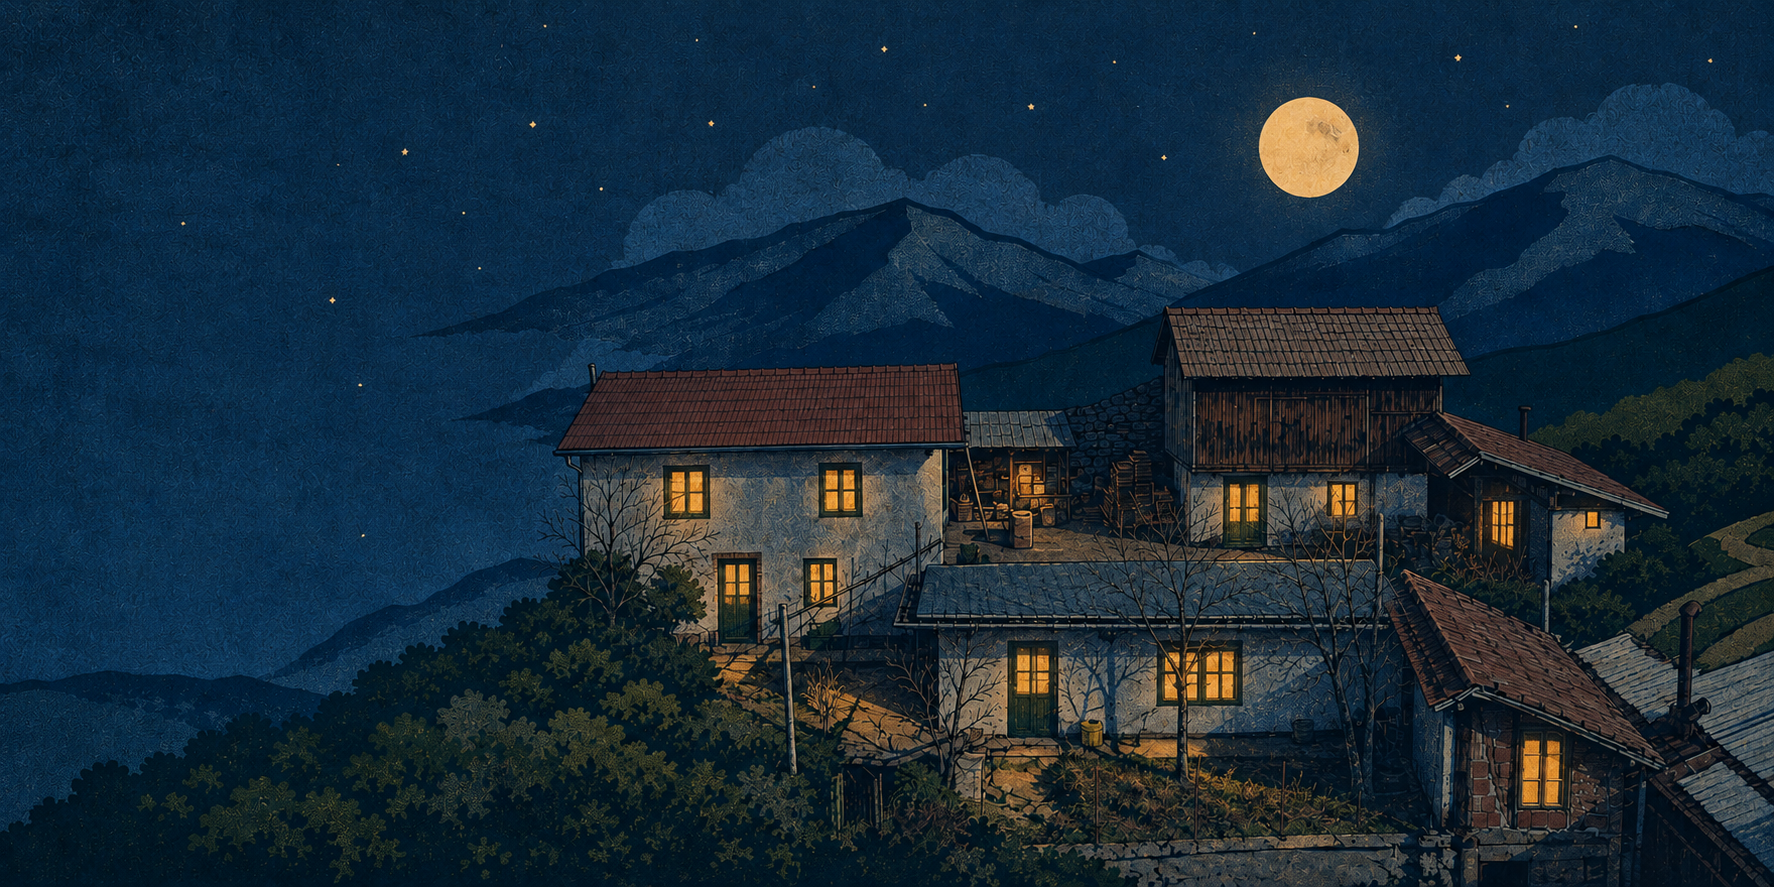
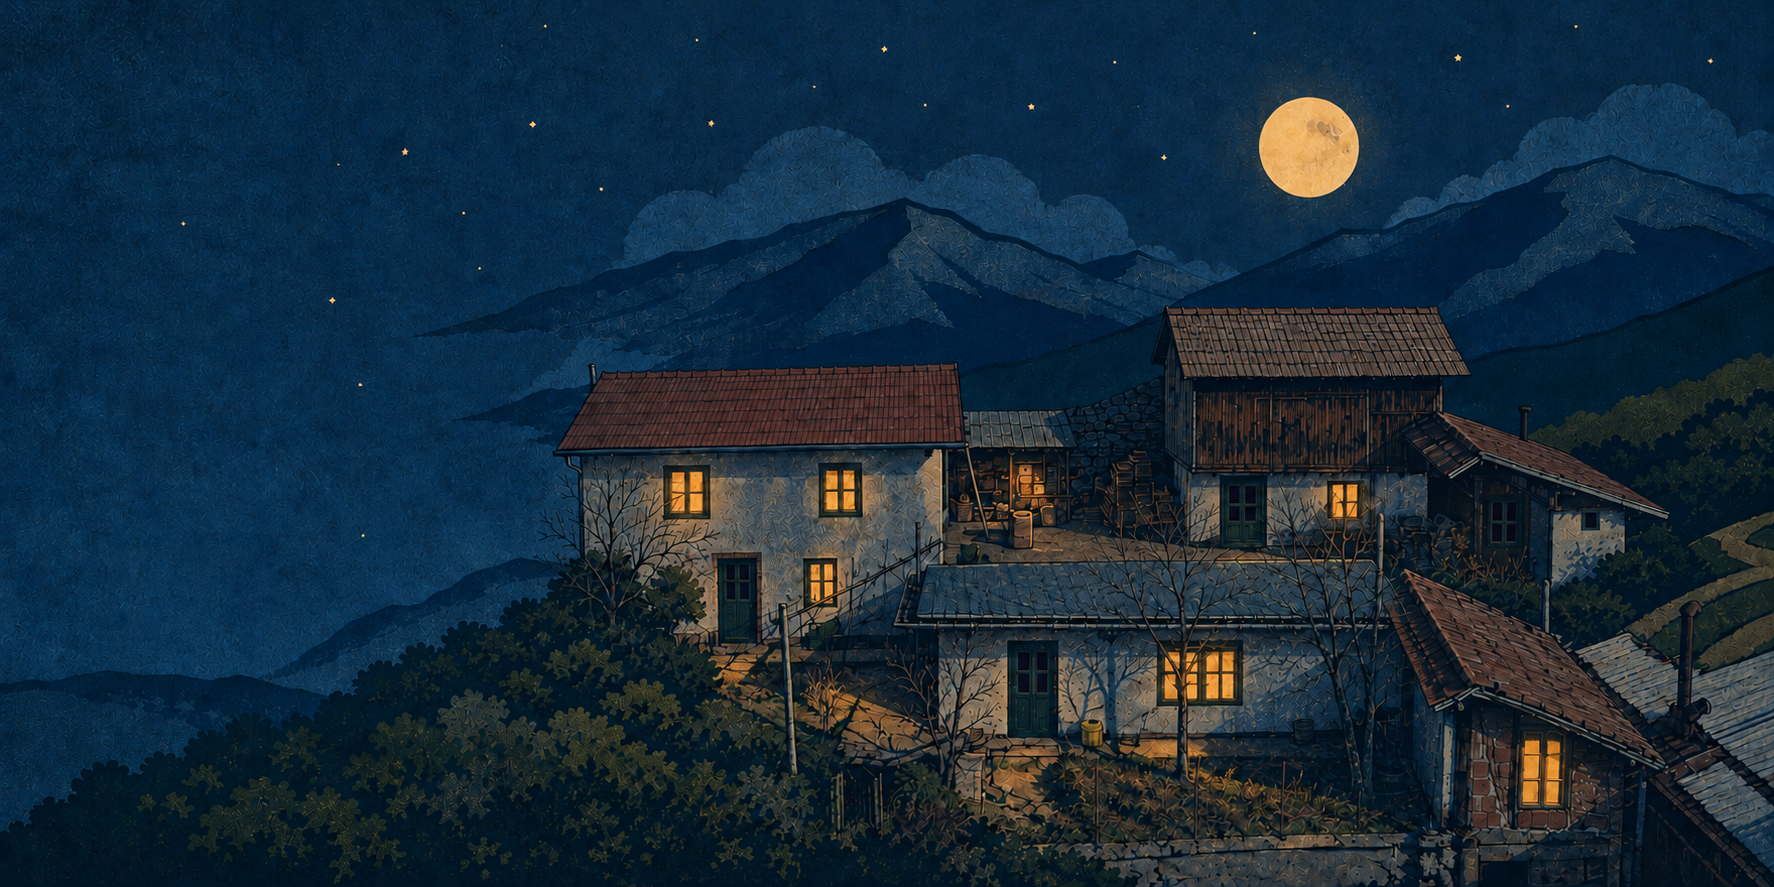
Correct night poster window lighting

diff --git a/src/main.tsx b/src/main.tsx
@@ -338,7 +338,7 @@ function App() {
 
       <main id="main">
         <section className="intro" id="kezdolap">
-          <img className="intro__photo" src={`${import.meta.env.BASE_URL}pasztra-poster-hero${darkMode ? "-night" : ""}.png`} alt={`A hegyoldali otthon ${darkMode ? "éjszakai" : "nappali"}, turisztikai plakát stílusú látképe`} />
+          <img className="intro__photo" src={`${import.meta.env.BASE_URL}${darkMode ? "pasztra-poster-hero-night.png?v=2" : "pasztra-poster-hero.png"}`} alt={`A hegyoldali otthon ${darkMode ? "éjszakai" : "nappali"}, turisztikai plakát stílusú látképe`} />
           <div className="intro__shade" aria-hidden="true" />
           <span className="sun-charm sun-charm--hero" aria-hidden="true"><i /></span>
           <div className="intro__content">
